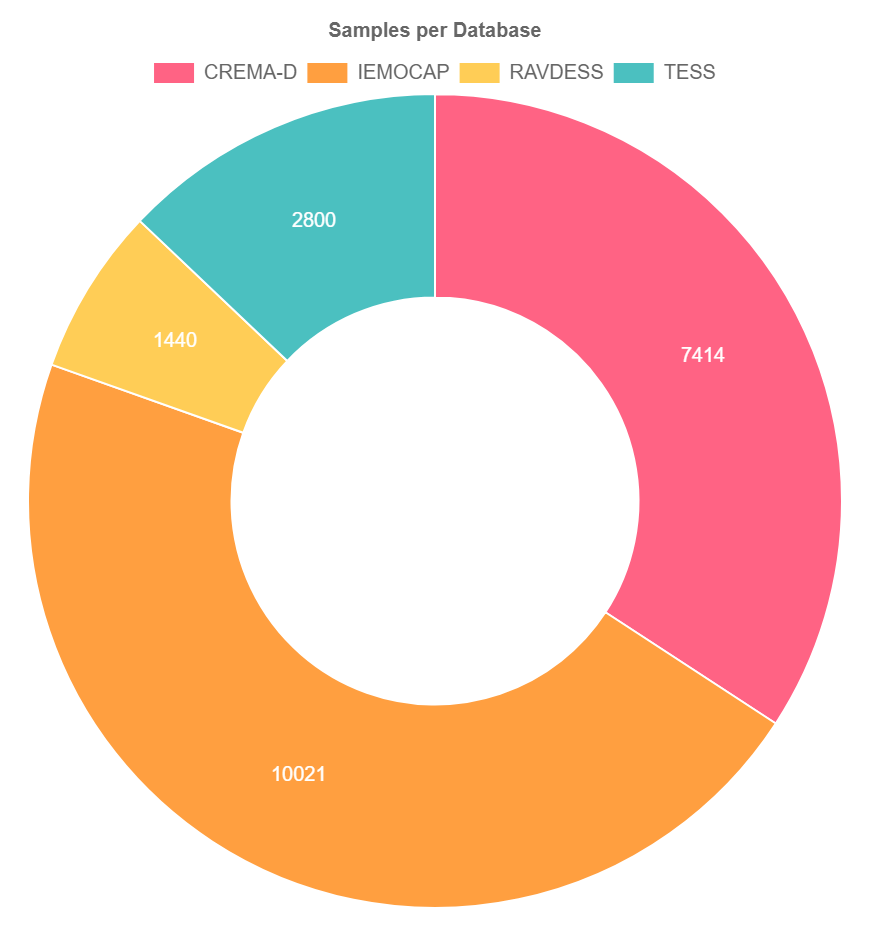
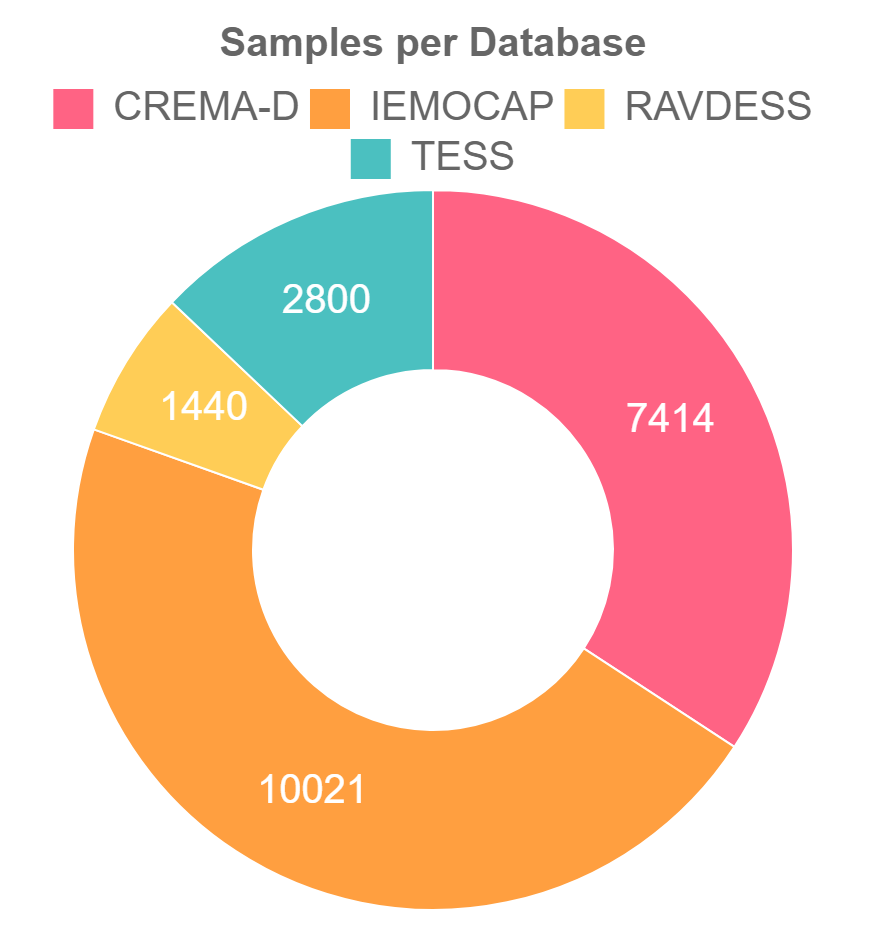
Update charts and images

diff --git a/research/charts/charts.js b/research/charts/charts.js
@@ -16,7 +16,7 @@ Chart.helpers.merge(Chart.defaults.global.plugins.datalabels, {
 });
 
 // Set font size
-Chart.defaults.global.defaultFontSize = 20;
+Chart.defaults.global.defaultFontSize = 40;
 
 // Standard colors
 window.chartColors = {
